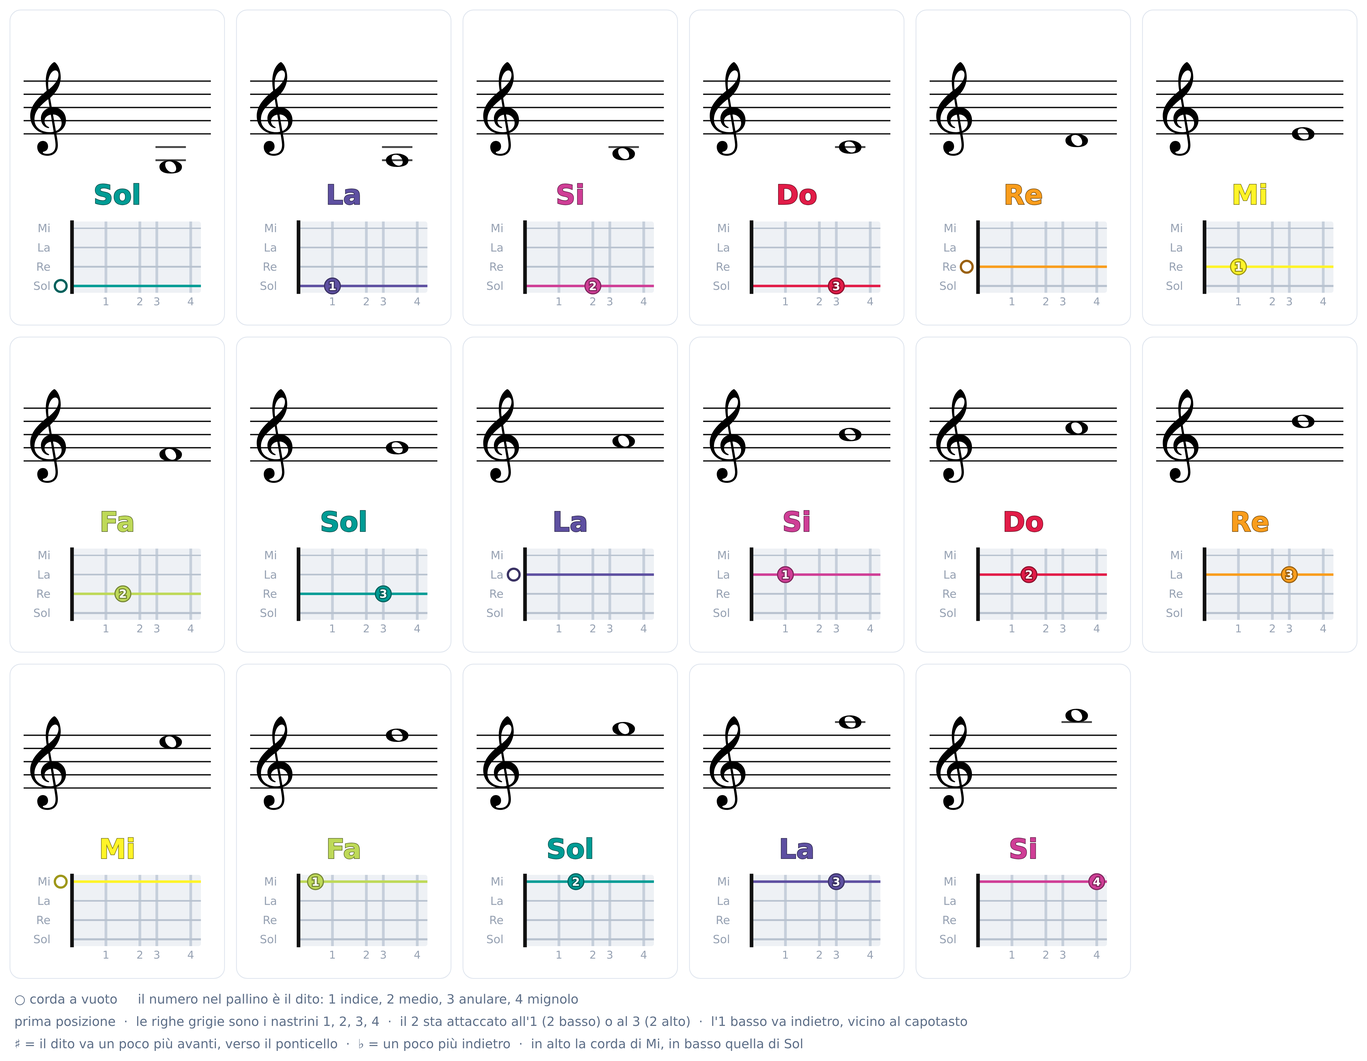
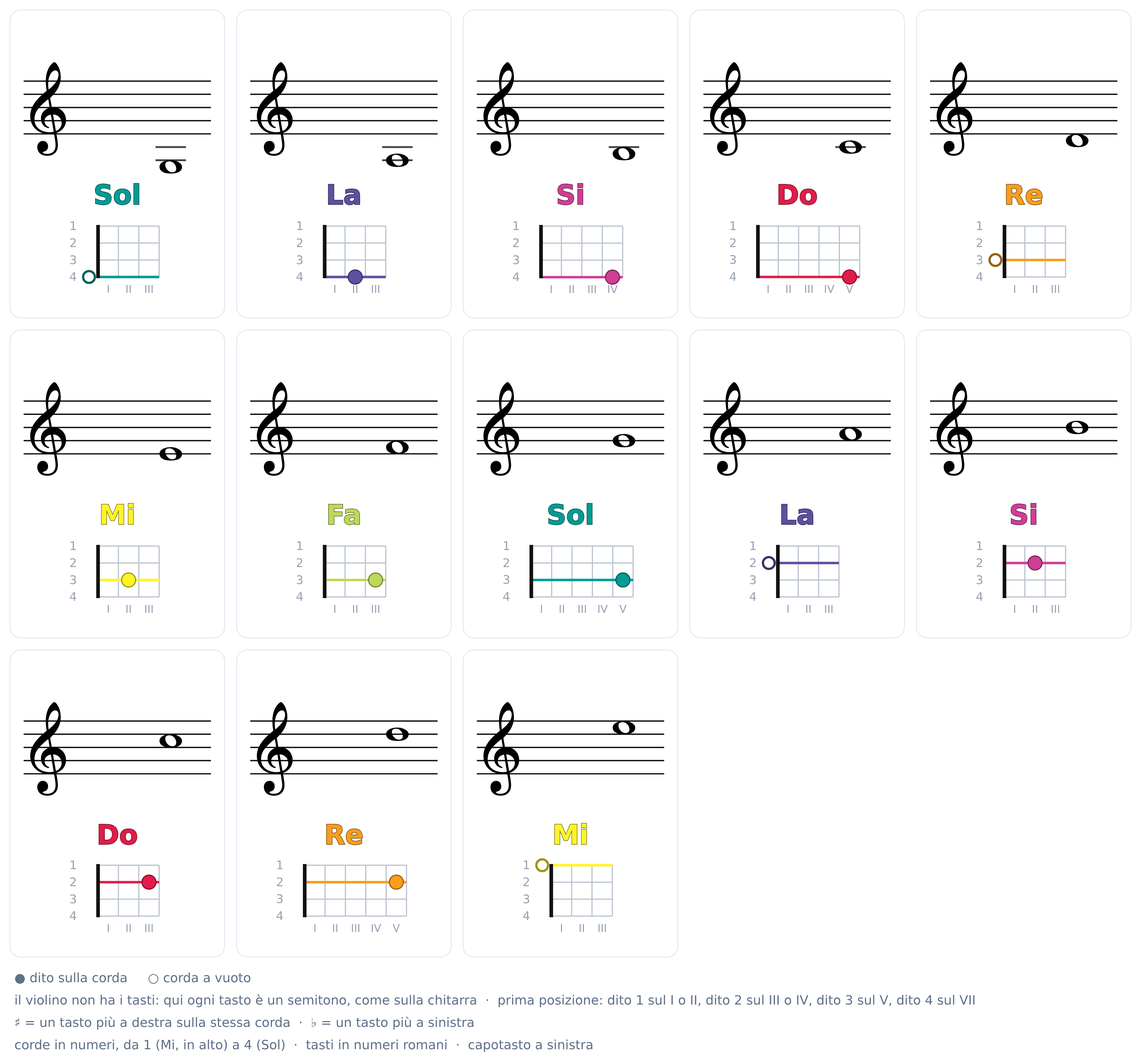
Violino: schema delle note con i tasti come la chitarra, dal Sol della quarta corda al Mi della prima
- Lo schema delle note del violino ora va dal Sol della quarta corda a vuoto al Mi della prima corda
  ed è disegnato come se il violino avesse i tasti della chitarra (un tasto = un semitono):
  corde in numeri (1 = Mi), tasti in numeri romani, come chitarra e basso.
- Seleziona note: il manico del violino ha i tasti dal I al VII (prima posizione); le carte del PDF,
  della stampa e della proiezione usano lo stesso disegno, tutte della stessa misura.
- Tolti i nastrini e i nomi delle dita della prima versione.

Claude-Session: https://claude.ai/code/session_01NrLg9qZSy3EMrs51XA96ZN

diff --git a/seleziona-note.html b/seleziona-note.html
@@ -7,7 +7,7 @@
   ============================================================
   SELEZIONA NOTE
   Si sceglie lo strumento e si toccano le note: sul manico
-  (chitarra, ukulele, basso, violino in prima posizione), sulla tastiera (pianoforte, in chiave
+  (chitarra, ukulele, basso, violino in prima posizione disegnato con i tasti), sulla tastiera (pianoforte, in chiave
   di violino, di basso o sul doppio pentagramma) o sul pentagramma
   (flauto dolce). Si genera un PDF A4 con lo schema di ogni nota
   (pentagramma, nome colorato, diteggiatura), su più pagine se serve,
@@ -23,7 +23,7 @@
 <link rel="stylesheet" href="fonts/caratteri.css">
 <link rel="stylesheet" href="comune.css">
 <script src="vexflow.js"></script>
-<script src="motore-schemi.js?v=2026-10-28a"></script>
+<script src="motore-schemi.js?v=2026-10-28b"></script>
 <script src="jspdf.js"></script>
 <style>
   * { box-sizing: border-box; }
@@ -244,10 +244,10 @@
     basso:    { nome: "Basso elettrico", ico: "ic-basso", col: "#E21C48", corde: 4, accordatura: [55, 50, 45, 40], chiave: "bass",
                 corda: ["Sol", "Re", "La", "Mi"] },
     piano:    { nome: "Pianoforte", ico: "ic-tastiera", col: "#a78bfa" },
+    // violino: disegnato come se avesse i tasti della chitarra (un tasto = un semitono), prima posizione fino al VII (4° dito)
     violino:  { nome: "Violino", ico: "ic-violino", col: "#2EC4B6", corde: 4, accordatura: [76, 69, 62, 55], chiave: "treble",
-                corda: ["Mi", "La", "Re", "Sol"] }
+                corda: ["Mi", "La", "Re", "Sol"], tasti: 7, senzaSegni: true }
   };
-  const SEMITONI_VIOLINO = 7;   // prima posizione: dalla corda a vuoto al 4° dito
   const TASTI_MANICO = 12;
   const CHIAVI_PIANO = {
     violino: { nome: "𝄞 Violino", da: 60, a: 84 },    // Do centrale – Do6
@@ -338,7 +338,7 @@
     const s = stato.strumento;
     if (s === "flauto") messaggio("Tocca il pentagramma all'altezza della nota. Per un diesis o un bemolle scegli prima <b>♯</b> o <b>♭</b>. Tocca di nuovo una nota per toglierla.");
     else if (s === "piano") messaggio("Tocca i tasti della tastiera. Il pallino grigio segna il <b>Do centrale</b>. Tocca di nuovo un tasto per toglierlo.");
-    else if (s === "violino") messaggio("Tocca il manico del violino (prima posizione): ogni riga è una <b>corda</b>, Mi in alto e Sol in basso; il numero sotto è il <b>dito</b>. Le righe grigie sono i nastrini: il 2 basso sta attaccato all'1, il 2 alto al 3.");
+    else if (s === "violino") messaggio("Il violino non ha i tasti: qui ogni <b>tasto</b> è un semitono, come sulla chitarra (prima posizione, fino al VII). Le <b>corde</b> sono numerate da 1 (Mi, in alto) a 4 (Sol). Tocca il punto della nota.");
     else messaggio("Tocca il manico: ogni punto è una <b>corda</b> (numeri a sinistra) e un <b>tasto</b> (numeri romani). A sinistra del capotasto c'è la corda a vuoto.");
   }
 
@@ -349,51 +349,18 @@
     disegnaSelettore(); disegnaNote(); disegnaAnteprima();
   }
 
-  /* ================= selettore: manico del violino (niente tasti: nastrini e dita) ================= */
-  function selettoreViolino() {
-    const S = STRUMENTI.violino, nC = 4;
-    const W = 880, x0 = 150, sp = (W - x0 - 34) / (SEMITONI_VIOLINO + 0.5), cs = 48, y0 = 34, H = y0 + (nC - 1) * cs + 62;
-    const lung = sp * (SEMITONI_VIOLINO + 0.5), nastrini = new Set(MS.NASTRINI_VIOLINO.map(n => n[0]));
-    let s = `<svg viewBox="0 0 ${W} ${H}" xmlns="${NS}" ${FONT}>`;
-    s += `<rect x="${x0}" y="${y0 - 18}" width="${lung}" height="${(nC - 1) * cs + 36}" fill="#e9edf2" rx="4"/>`;
-    for (let t = 1; t <= SEMITONI_VIOLINO; t++) {
-      const x = x0 + t * sp, nastro = nastrini.has(t);
-      if (nastro) s += `<line x1="${x}" y1="${y0 - 18}" x2="${x}" y2="${y0 + (nC - 1) * cs + 18}" stroke="#c3ccd8" stroke-width="7"/>`;
-      s += `<text x="${x}" y="${H - 14}" font-size="${nastro ? 16 : 12.5}" font-weight="${nastro ? 700 : 400}" text-anchor="middle" fill="${nastro ? "#334155" : "#7b8796"}">${MS.ditoViolino(t)[1]}</text>`;
-    }
-    s += `<text x="${x0 - 30}" y="${H - 14}" font-size="13" text-anchor="middle" fill="#64748b">vuota</text>`;
-    s += `<line x1="${x0}" y1="${y0 - 19}" x2="${x0}" y2="${y0 + (nC - 1) * cs + 19}" stroke="#111" stroke-width="6"/>`;
-    for (let c = 1; c <= nC; c++) {
-      const y = y0 + (c - 1) * cs;
-      s += `<line x1="${x0 - 60}" y1="${y}" x2="${x0 + lung}" y2="${y}" stroke="#7b8796" stroke-width="${1.2 + c * 0.5}"/>`;
-      s += `<text x="${x0 - 70}" y="${y + 5}" font-size="15" font-weight="700" text-anchor="end" fill="#475569">${S.corda[c - 1]}</text>`;
-    }
-    const scelte = elenco();
-    for (let c = 1; c <= nC; c++) for (let t = 0; t <= SEMITONI_VIOLINO; t++) {
-      const cx = t === 0 ? x0 - 30 : x0 + t * sp, y = y0 + (c - 1) * cs;
-      const k = daMidi(S.accordatura[c - 1] + t, stato.alt), n = MS.analizza(k);
-      if (scelte.some(e => e.c === c && e.t === t)) {
-        const col = COLORI[n.lettera];
-        s += `<circle cx="${cx}" cy="${y}" r="17" fill="${col}" stroke="${scur(col, 0.55)}" stroke-width="1.5"/>`;
-        s += `<text x="${cx}" y="${y + 4.5}" font-size="${n.alt ? 11 : 13}" font-weight="700" text-anchor="middle" fill="#fff" stroke="${scur(col, 0.45)}" stroke-width="2.6" paint-order="stroke">${nomeNota(k)}</text>`;
-      } else s += `<text x="${cx}" y="${y - 7}" font-size="11" text-anchor="middle" fill="#8f9bab">${nomeNota(k)}</text>`;
-      const zx = t === 0 ? x0 - 60 : x0 + (t - 0.5) * sp, zw = t === 0 ? 60 : sp;
-      s += `<rect class="zona" data-c="${c}" data-t="${t}" x="${zx}" y="${y - cs / 2}" width="${zw}" height="${cs}"/>`;
-    }
-    return s + "</svg>";
-  }
-
   /* ================= selettore: manico ================= */
   function selettoreManico() {
-    const S = STRUMENTI[stato.strumento], nC = S.corde;
-    const W = 880, x0 = 92, fw = (W - x0 - 14) / TASTI_MANICO, sp = nC === 6 ? 38 : 48, y0 = 30, H = y0 + (nC - 1) * sp + 52;
+    const S = STRUMENTI[stato.strumento], nC = S.corde, nT = S.tasti || TASTI_MANICO;
+    const W = 880, x0 = 92, fw = (W - x0 - 14) / nT, sp = nC === 6 ? 38 : 48, y0 = 30, H = y0 + (nC - 1) * sp + 52;
     let s = `<svg viewBox="0 0 ${W} ${H}" xmlns="${NS}" ${FONT}>`;
     // tastiera di legno chiaro
-    s += `<rect x="${x0}" y="${y0 - 16}" width="${fw * TASTI_MANICO}" height="${(nC - 1) * sp + 32}" fill="#f6efe3" rx="3"/>`;
-    const segni = [3, 5, 7, 9];
-    segni.forEach(t => s += `<circle cx="${x0 + (t - 0.5) * fw}" cy="${y0 + (nC - 1) * sp / 2}" r="6" fill="#d9cdb8"/>`);
-    s += `<circle cx="${x0 + 11.5 * fw}" cy="${y0 + (nC - 1) * sp / 2 - sp}" r="6" fill="#d9cdb8"/><circle cx="${x0 + 11.5 * fw}" cy="${y0 + (nC - 1) * sp / 2 + sp}" r="6" fill="#d9cdb8"/>`;
-    for (let t = 1; t <= TASTI_MANICO; t++) {
+    s += `<rect x="${x0}" y="${y0 - 16}" width="${fw * nT}" height="${(nC - 1) * sp + 32}" fill="#f6efe3" rx="3"/>`;
+    if (!S.senzaSegni) {
+      [3, 5, 7, 9].forEach(t => s += `<circle cx="${x0 + (t - 0.5) * fw}" cy="${y0 + (nC - 1) * sp / 2}" r="6" fill="#d9cdb8"/>`);
+      s += `<circle cx="${x0 + 11.5 * fw}" cy="${y0 + (nC - 1) * sp / 2 - sp}" r="6" fill="#d9cdb8"/><circle cx="${x0 + 11.5 * fw}" cy="${y0 + (nC - 1) * sp / 2 + sp}" r="6" fill="#d9cdb8"/>`;
+    }
+    for (let t = 1; t <= nT; t++) {
       s += `<line x1="${x0 + t * fw}" y1="${y0 - 16}" x2="${x0 + t * fw}" y2="${y0 + (nC - 1) * sp + 16}" stroke="#b8c2cf" stroke-width="2"/>`;
       s += `<text x="${x0 + (t - 0.5) * fw}" y="${H - 8}" font-size="15" text-anchor="middle" fill="#64748b">${ROMANI[t]}</text>`;
     }
@@ -401,13 +368,13 @@
     s += `<line x1="${x0}" y1="${y0 - 17}" x2="${x0}" y2="${y0 + (nC - 1) * sp + 17}" stroke="#111" stroke-width="6"/>`;
     for (let c = 1; c <= nC; c++) {
       const y = y0 + (c - 1) * sp;
-      s += `<line x1="${x0 - 50}" y1="${y}" x2="${x0 + fw * TASTI_MANICO}" y2="${y}" stroke="#7b8796" stroke-width="${1.2 + c * 0.45}"/>`;
+      s += `<line x1="${x0 - 50}" y1="${y}" x2="${x0 + fw * nT}" y2="${y}" stroke="#7b8796" stroke-width="${1.2 + c * 0.45}"/>`;
       s += `<text x="10" y="${y + 5}" font-size="15" font-weight="700" fill="#475569">${c}</text>`;
       s += `<text x="24" y="${y + 5}" font-size="12" fill="#64748b">${S.corda[c - 1]}</text>`;
     }
     // nomi delle note (chiari) e note scelte
     const scelte = elenco();
-    for (let c = 1; c <= nC; c++) for (let t = 0; t <= TASTI_MANICO; t++) {
+    for (let c = 1; c <= nC; c++) for (let t = 0; t <= nT; t++) {
       const cx = t === 0 ? x0 - 26 : x0 + (t - 0.5) * fw, y = y0 + (c - 1) * sp;
       const k = daMidi(S.accordatura[c - 1] + t, stato.alt), n = MS.analizza(k);
       const scelto = scelte.some(e => e.c === c && e.t === t);
@@ -490,7 +457,7 @@
     const box = document.getElementById("selettore");
     const s = stato.strumento;
     box.classList.toggle("largo", s !== "flauto");
-    box.innerHTML = s === "flauto" ? selettoreRigo() : s === "piano" ? selettoreTastiera() : s === "violino" ? selettoreViolino() : selettoreManico();
+    box.innerHTML = s === "flauto" ? selettoreRigo() : s === "piano" ? selettoreTastiera() : selettoreManico();
     const svg = box.querySelector("svg");
     if (s === "flauto") {
       const f = svg.querySelector("#fantasma");
@@ -530,7 +497,6 @@
     return l;
   }
   function descrizione(it) {
-    if (it.c && stato.strumento === "violino") return `corda ${STRUMENTI.violino.corda[it.c - 1]} · ${it.t === 0 ? "vuota" : "dito " + MS.ditoViolino(it.t)[1]}`;
     if (it.c) return `corda ${it.c} · ${it.t === 0 ? "vuota" : "tasto " + ROMANI[it.t]}`;
     if (it.m === 60) return "Do centrale";
     return "";
@@ -664,9 +630,10 @@
   }
   const vistaDi = ch => { const f = finestre[ch]; return f ? `${f.x} ${f.y} ${f.w} ${f.b - f.y}` : null; };
 
-  // schema di una posizione: il violino ha il suo disegno (nastrini e dita), gli altri il manico con i tasti
+  // schema di una posizione: per il violino lo stesso disegno dello schema delle note (dal capotasto al VII, un tasto = un semitono),
+  // per gli altri strumenti a corde quattro tasti attorno alla nota
   function schemaCorde(str, it, k) {
-    return str === "violino" ? MS.schemaNota("violino", MS.analizza(k), [it.c, it.t]) : schemaManico(str, it.c, it.t, k);
+    return str === "violino" ? MS.schemaNota("violino", MS.analizza(k), [it.c, it.t], STRUMENTI.violino.tasti) : schemaManico(str, it.c, it.t, k);
   }
   function carta(it, x, y, w, h) {
     const k = chiaveDi(it), n = MS.analizza(k), col = COLORI[n.lettera], nome = nomeNota(k), str = stato.strumento;
@@ -680,7 +647,7 @@
       s += annida(MS.schemaNota("flauto", n), x + wr + 2, y + 3, w - wr - 4, h - 6);
       return s;
     }
-    if (w > h * 1.2 && str !== "violino") {
+    if (w > h * 1.2 && str !== "violino") {   // il violino (schema lungo, 7 tasti) resta sotto il nome anche alla LIM
       // carta larga (proiezione alla LIM): pentagramma e nome a sinistra, schema a destra, tutto più grande
       const fl = Math.min(h * 0.17, w * 0.1) * (nome.length > 3 ? 0.88 : 1);
       const wr = w * 0.5, hr = h * 0.62, yr = y + (h - hr - fl * 1.3) / 2;

diff --git a/motore-schemi.js b/motore-schemi.js
@@ -50,7 +50,8 @@
       e2: [4, 0], f2: [4, 1], g2: [4, 3], a2: [3, 0], bb2: [3, 1], b2: [3, 2], c3: [3, 3], d3: [2, 0], e3: [2, 2], f3: [2, 3],
       g3: [1, 0], a3: [1, 2], b3: [1, 4], c4: [1, 5], d4: [1, 7]
     },
-    /* violino, prima posizione: [corda (1 = Mi, 4 = Sol), semitoni sopra la corda a vuoto] (vedi DITA_VIOLINO) */
+    /* violino, prima posizione, disegnato come se avesse i tasti della chitarra (un tasto = un semitono):
+       [corda (1 = Mi, 4 = Sol), tasto]. Dito 1 sul I o II, dito 2 sul III o IV, dito 3 sul V, dito 4 sul VII */
     violino: {
       g3: [4, 0], a3: [4, 2], b3: [4, 4], c4: [4, 5], d4: [3, 0], e4: [3, 2], f4: [3, 3], "f#4": [3, 4], g4: [3, 5],
       a4: [2, 0], b4: [2, 2], c5: [2, 3], "c#5": [2, 4], d5: [2, 5], e5: [1, 0], f5: [1, 1], "f#5": [1, 2], g5: [1, 3],
@@ -77,13 +78,6 @@
   const romano = n => ROMANI[n] || String(n);
   const SEGNI_TASTO = { chitarra: [], ukulele: [3, 5, 7], basso: [3, 5, 7], violino: [] };
 
-  /* violino: niente tasti. In prima posizione ogni semitono sopra la corda a vuoto è un dito:
-     0 vuota, 1 «1 basso», 2 «1», 3 «2 basso» (attaccato all'1), 4 «2 alto» (attaccato al 3), 5 «3», 6 «3 alto», 7 «4» */
-  const DITA_VIOLINO = [[0, "vuota"], [1, "1 basso"], [1, "1"], [2, "2 basso"], [2, "2 alto"], [3, "3"], [3, "3 alto"], [4, "4"]];
-  const NOMI_CORDE_VIOLINO = ["Mi", "La", "Re", "Sol"];
-  const NASTRINI_VIOLINO = [[2, 1], [4, 2], [5, 3], [7, 4]];   // [semitono, dito]: dove si mettono i nastrini per i principianti
-  function ditoViolino(semitoni) { return DITA_VIOLINO[semitoni] || [null, ""]; }
-
   /* ---------- note: "bb4" -> { lettera, alterazione, ottava } ---------- */
   function analizza(k) {
     const m = /^([a-g])(b|#)?(\d)$/.exec(k);
@@ -109,43 +103,13 @@
   }
 
   /* ===================== disegno degli schemi (SVG) ===================== */
-  /* violino: manico liscio con i nastrini (1, 2, 3, 4); il pallino è il dito, il cerchio vuoto la corda a vuoto */
-  const LARG_VIOLINO = 160;
-  function svgViolino(nota, cx, top, posizione) {
-    const pos = posizione || posCorde("violino", nota);
-    if (!pos || pos[1] > 7) return `<text x="${cx}" y="${top + 30}" font-size="10" text-anchor="middle" fill="${GRIGIO}">?</text>`;
-    const [corda, semi] = pos;
-    const passo = 17, sp = 15, alto = 3 * passo, lung = 7.6 * sp;
-    const x0 = cx - LARG_VIOLINO / 2 + 40, y0 = top;
-    const col = COLORI[nota.lettera], bordo = scurisci(col, 0.62);
-    const F = 'font-family="DejaVu Sans, Verdana, sans-serif"';
-    let s = `<rect x="${x0}" y="${y0 - 6}" width="${lung}" height="${alto + 12}" rx="2" fill="#eef1f5"/>`;
-    for (const [t, d] of NASTRINI_VIOLINO) {
-      s += `<line x1="${x0 + t * sp}" y1="${y0 - 6}" x2="${x0 + t * sp}" y2="${y0 + alto + 6}" stroke="#c6cfdb" stroke-width="2.4"/>`;
-      s += `<text x="${x0 + t * sp}" y="${y0 + alto + 17}" font-size="9.5" text-anchor="middle" fill="${GRIGIO}" ${F}>${d}</text>`;
-    }
-    for (let c = 1; c <= 4; c++) {
-      const y = y0 + (c - 1) * passo, attiva = c === corda;
-      s += `<line x1="${x0}" y1="${y}" x2="${x0 + lung}" y2="${y}" stroke="${attiva ? col : LINEA}" stroke-width="${attiva ? 2.2 : 1 + c * 0.2}"/>`;
-      s += `<text x="${x0 - 19}" y="${y + 3.5}" font-size="10" text-anchor="end" fill="${GRIGIO}" ${F}>${NOMI_CORDE_VIOLINO[c - 1]}</text>`;
-    }
-    s += `<line x1="${x0}" y1="${y0 - 7}" x2="${x0}" y2="${y0 + alto + 7}" stroke="#111" stroke-width="3.2"/>`;
-    const y = y0 + (corda - 1) * passo;
-    if (semi === 0) s += `<circle cx="${x0 - 10}" cy="${y}" r="5.2" fill="#fff" stroke="${bordo}" stroke-width="2"/>`;
-    else {
-      const x = x0 + semi * sp;
-      s += `<circle cx="${x}" cy="${y}" r="7" fill="${col}" stroke="${bordo}" stroke-width="1"/>`;
-      s += `<text x="${x}" y="${y + 3.6}" font-size="10" font-weight="700" text-anchor="middle" fill="#fff" stroke="${bordo}" stroke-width="2" paint-order="stroke" ${F}>${ditoViolino(semi)[0]}</text>`;
-    }
-    return s;
-  }
-  function svgCorde(strumento, nota, cx, top, posizione) {
-    if (strumento === "violino") return svgViolino(nota, cx, top, posizione);
+  /* minTasti (facoltativo): quanti tasti disegnare almeno, così più schemi escono della stessa misura */
+  function svgCorde(strumento, nota, cx, top, posizione, minTasti) {
     const nCorde = CORDE[strumento];
     const pos = posizione || posCorde(strumento, nota);
     if (!pos) return `<text x="${cx}" y="${top + 30}" font-size="10" text-anchor="middle" fill="${GRIGIO}">?</text>`;
     const [corda, tasto] = pos;
-    const tasti = Math.max(3, tasto);
+    const tasti = Math.max(minTasti || 3, tasto);
     const passo = 15, largTasto = 18, larg = tasti * largTasto, alto = (nCorde - 1) * passo;
     const x0 = cx - larg / 2 + 6, y0 = top;
     const col = COLORI[nota.lettera], bordo = scurisci(col, 0.62);
@@ -170,10 +134,9 @@
     else s += `<circle cx="${x0 + (tasto - 0.5) * largTasto}" cy="${y}" r="6.2" fill="${col}" stroke="${bordo}" stroke-width="1"/>`;
     return s;
   }
-  function larghezzaCorde(strumento, nota, posizione) {
-    if (strumento === "violino") return LARG_VIOLINO;
+  function larghezzaCorde(strumento, nota, posizione, minTasti) {
     const pos = posizione || posCorde(strumento, nota) || [1, 3];
-    return Math.max(3, pos[1]) * 18 + 44;
+    return Math.max(minTasti || 3, pos[1]) * 18 + 44;
   }
 
   function svgFlauto(nota, cx, top) {
@@ -274,7 +237,7 @@
     return s;
   }
 
-  const CELLA = { flauto: 72, chitarra: 106, basso: 100, tastiera: 150, violino: 178 };
+  const CELLA = { flauto: 72, chitarra: 106, basso: 100, tastiera: 150, violino: 176 };
 
   /* ===================== gruppo completo =====================
      disegnaGruppo(elemento, "chitarra", ["sol","la","si","do","re"])
@@ -285,7 +248,7 @@
     const note = typeof nomiOppureNote[0] === "string" ? daNomi(nomiOppureNote, strumento === "basso" ? 2 : 4) : nomiOppureNote;
     const celle = note.map(n => strumento === "ukulele" ? larghezzaCorde("ukulele", n) + 10 : CELLA[strumento]);
     const margineSx = 70, largTot = margineSx + celle.reduce((a, b) => a + b, 0) + 10;
-    const altoSchema = { flauto: 172, chitarra: 105, ukulele: 78, basso: 78, tastiera: 62, violino: 82 }[strumento];
+    const altoSchema = { flauto: 172, chitarra: 105, ukulele: 78, basso: 78, tastiera: 62, violino: 78 }[strumento];
     const yRigo = 6, ySchemi = 128, altoTot = ySchemi + altoSchema + 8;
 
     contenitore.innerHTML = "";
@@ -905,12 +868,11 @@
   }
 
   /* schema di una sola nota (solo la diteggiatura, senza pentagramma), come SVG a sé */
-  function schemaNota(strumento, n, posizione) {
+  function schemaNota(strumento, n, posizione, minTasti) {
     let w, h, corpo;
     if (strumento === "flauto") { w = 66; h = 188; corpo = svgFlauto(n, 40, 6); }
     else if (strumento === "tastiera") { w = 150; h = 64; corpo = svgTastiera(n, 75, 5); }
-    else if (strumento === "violino") { w = LARG_VIOLINO - 2; h = 3 * 17 + 34; corpo = svgViolino(n, w / 2, 10, posizione); }
-    else { w = larghezzaCorde(strumento, n, posizione) + 12; h = (CORDE[strumento] - 1) * 15 + 34; corpo = svgCorde(strumento, n, w / 2 + 4, 8, posizione); }
+    else { w = larghezzaCorde(strumento, n, posizione, minTasti) + 12; h = (CORDE[strumento] - 1) * 15 + 34; corpo = svgCorde(strumento, n, w / 2 + 4, 8, posizione, minTasti); }
     return `<svg xmlns="${NS}" viewBox="0 0 ${w} ${h}" style="display:block;width:100%;height:auto"><g stroke="none">${corpo}</g></svg>`;
   }
   /* pentagramma con una sola nota (per le carte), come SVG */
@@ -934,7 +896,7 @@
     svg.style.width = "100%"; svg.style.height = "auto"; svg.style.display = "block";
   }
   /* carte delle note, come negli schemi: pentagramma con la nota, nome colorato, diteggiatura */
-  const LARGH_SCHEMA_CARTA = { flauto: 0.42, tastiera: 0.96, chitarra: 0.8, ukulele: 0.86, basso: 0.8, violino: 0.92 };
+  const LARGH_SCHEMA_CARTA = { flauto: 0.42, tastiera: 0.96, chitarra: 0.8, ukulele: 0.86, basso: 0.8, violino: 0.8 };
   function disegnaCarte(contenitore, strumento, note) {
     contenitore.innerHTML = "";
     note.forEach(n => {
@@ -949,5 +911,5 @@
 
   global.MotoreSchemi = { posCorde, disegnaGruppo, disegnaBrano, leggiMusicXML, noteUsate, POSIZIONI, ALTERNATIVE, COLORI, NOMI, daNomi, analizza,
     paginaA4, stampaPagina, salvaPaginaPDF, disegnaCarte, adattaBrano, schemaNota, rigoNota, svgAccordo, ACCORDI, SIGLE, LETTERA_ACCORDO, romano,
-    ACCORDATURA, ditoViolino, NOMI_CORDE_VIOLINO, NASTRINI_VIOLINO };
+    ACCORDATURA };
 })(window);

diff --git a/updates.html b/updates.html
@@ -59,9 +59,9 @@
   <h2>28 ottobre 2026</h2>
   <article>
     <h3><span class="tipo aggiunto">Aggiunto</span><a href="schemi-strumenti.html">Schemi degli strumenti</a>: il violino (in costruzione)</h3>
-    <p>Negli Schemi c'è anche il violino: lo schema delle note della prima posizione, dal Sol al Si acuto, con la corda,
-      il dito da usare e i nastrini. Il violino si può scegliere anche in <a href="seleziona-note.html">Seleziona note</a>,
-      toccando le note sul suo manico.</p>
+    <p>Negli Schemi c'è anche il violino: lo schema delle note dal Sol della quarta corda a vuoto al Mi della prima corda,
+      disegnato come se il violino avesse i tasti della chitarra (ogni tasto è un semitono). Il violino si può scegliere
+      anche in <a href="seleziona-note.html">Seleziona note</a>, toccando le note sul suo manico (prima posizione, fino al VII tasto).</p>
   </article>
   <article>
     <h3><span class="tipo aggiunto">Aggiunto</span><a href="tempi-semplici.html">I tempi semplici</a> (in costruzione)</h3>

diff --git a/schemi-strumenti.html b/schemi-strumenti.html
@@ -533,7 +533,7 @@
       inCostruzione: true,
       icona: '<svg class="ico" viewBox="0 0 48 48" aria-hidden="true"><use href="icone.svg#ic-violino"/></svg>',
       schemi: [
-        { title: "Schema note", icon: "📄", label: "Note", desc: "Le note della prima posizione, con la corda e il dito da usare.", url: "media/schemi/schema-note-violino.png?v=2026-10-28" }
+        { title: "Schema note", icon: "📄", label: "Note", desc: "Dal Sol della quarta corda al Mi della prima: ogni tasto è un semitono, come sulla chitarra.", url: "media/schemi/schema-note-violino.png?v=2026-10-28b" }
       ]
     }
   ];

diff --git a/brani-propedeutici.html b/brani-propedeutici.html
@@ -595,7 +595,7 @@
   .strumenti-bar { -webkit-backdrop-filter: none; backdrop-filter: none; background: rgba(15, 23, 42, 0.97); }
 </style>
 <script src="vexflow.js"></script>
-<script src="motore-schemi.js?v=2026-10-28a"></script>
+<script src="motore-schemi.js?v=2026-10-28b"></script>
 <!-- per i motori di ricerca e la condivisione -->
 <link rel="canonical" href="https://musicascuole.it/brani-propedeutici.html">
 <meta property="og:type" content="website">

diff --git a/primi-brani-2.html b/primi-brani-2.html
@@ -597,7 +597,7 @@
   .strumenti-bar { -webkit-backdrop-filter: none; backdrop-filter: none; background: rgba(15, 23, 42, 0.97); }
 </style>
 <script src="vexflow.js"></script>
-<script src="motore-schemi.js?v=2026-10-28a"></script>
+<script src="motore-schemi.js?v=2026-10-28b"></script>
 <!-- per i motori di ricerca e la condivisione -->
 <link rel="canonical" href="https://musicascuole.it/primi-brani-2.html">
 <meta property="og:type" content="website">

diff --git a/primi-brani.html b/primi-brani.html
@@ -597,7 +597,7 @@
   .strumenti-bar { -webkit-backdrop-filter: none; backdrop-filter: none; background: rgba(15, 23, 42, 0.97); }
 </style>
 <script src="vexflow.js"></script>
-<script src="motore-schemi.js?v=2026-10-28a"></script>
+<script src="motore-schemi.js?v=2026-10-28b"></script>
 <!-- per i motori di ricerca e la condivisione -->
 <link rel="canonical" href="https://musicascuole.it/primi-brani.html">
 <meta property="og:type" content="website">

diff --git a/diabelli.html b/diabelli.html
@@ -597,7 +597,7 @@
   .strumenti-bar { -webkit-backdrop-filter: none; backdrop-filter: none; background: rgba(15, 23, 42, 0.97); }
 </style>
 <script src="vexflow.js"></script>
-<script src="motore-schemi.js?v=2026-10-28a"></script>
+<script src="motore-schemi.js?v=2026-10-28b"></script>
 <!-- per i motori di ricerca e la condivisione -->
 <link rel="canonical" href="https://musicascuole.it/diabelli.html">
 <meta property="og:type" content="website">

diff --git a/berens.html b/berens.html
@@ -597,7 +597,7 @@
   .strumenti-bar { -webkit-backdrop-filter: none; backdrop-filter: none; background: rgba(15, 23, 42, 0.97); }
 </style>
 <script src="vexflow.js"></script>
-<script src="motore-schemi.js?v=2026-10-28a"></script>
+<script src="motore-schemi.js?v=2026-10-28b"></script>
 <!-- per i motori di ricerca e la condivisione -->
 <link rel="canonical" href="https://musicascuole.it/berens.html">
 <meta property="og:type" content="website">

diff --git a/scale.html b/scale.html
@@ -598,7 +598,7 @@
   .strumenti-bar { -webkit-backdrop-filter: none; backdrop-filter: none; background: rgba(15, 23, 42, 0.97); }
 </style>
 <script src="vexflow.js"></script>
-<script src="motore-schemi.js?v=2026-10-28a"></script>
+<script src="motore-schemi.js?v=2026-10-28b"></script>
 <!-- per i motori di ricerca e la condivisione -->
 <link rel="canonical" href="https://musicascuole.it/scale.html">
 <meta property="og:type" content="website">

diff --git a/costruttore-di-battute.html b/costruttore-di-battute.html
@@ -23,7 +23,7 @@
 <link rel="apple-touch-icon" href="apple-touch-icon.png">
 <link rel="stylesheet" href="fonts/caratteri.css">
 <script src="vexflow.js"></script>
-<script src="motore-schemi.js?v=2026-10-28a"></script>
+<script src="motore-schemi.js?v=2026-10-28b"></script>
 <link rel="stylesheet" href="comune.css">
 <style>
   * { box-sizing: border-box; }

diff --git a/solfeggio-cantato.html b/solfeggio-cantato.html
@@ -210,7 +210,7 @@
 <div id="areaStampa"></div>
 
 <script src="vexflow.js"></script>
-<script src="motore-schemi.js?v=2026-10-28a"></script>
+<script src="motore-schemi.js?v=2026-10-28b"></script>
 <script>
 (function () {
   "use strict";
